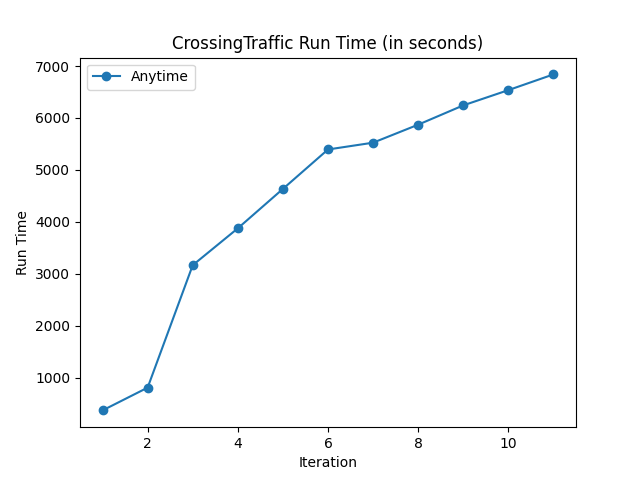
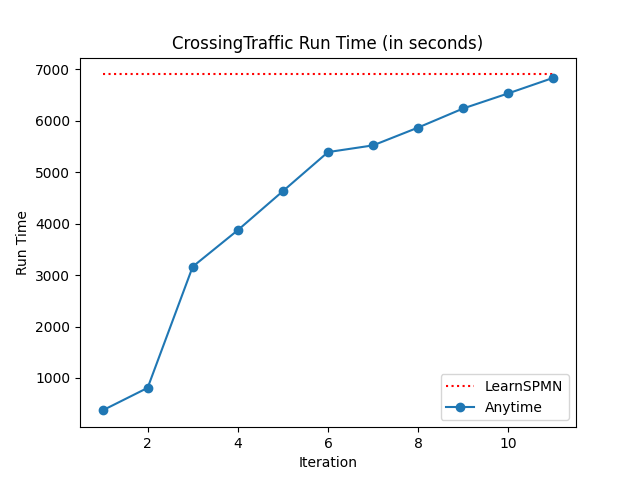
GameOfLife

diff --git a/src/plot.py b/src/plot.py
@@ -28,20 +28,21 @@ path = "new_results_depth1"
 plot_path = f"{path}/{dataset}"
 
 runtime = [367.90279507637024, 806.3270936012268, 3164.336494445801, 3874.411342382431, 4633.373266220093, 5392.799260139465, 5523.524729251862, 5870.454257249832, 6242.0677926540375, 6535.799045324326, 6838.531485795975]
-#avg_ll = [-12.62200935452218, -7.172130296998749, -4.485157790960345, -4.485157790960345, -4.485157790960345, -4.485157790960345, -3.0328539659488234, -3.0328539659488234, -3.0328539659488234, -3.0328539659488234, -3.0328539659488234]
-#ll_dev= [0.46294919289399167, 0.06970015640902255, 0.04424240994764077, 0.04424240994764077, 0.04424240994764077, 0.04424240994764077, 0.03784934657653855, 0.03784934657653855, 0.03784934657653855, 0.03784934657653855, 0.03784934657653855]
+avg_ll = [-12.62200935452218, -7.172130296998749, -4.485157790960345, -4.485157790960345, -4.485157790960345, -4.485157790960345, -3.0328539659488234, -3.0328539659488234, -3.0328539659488234, -3.0328539659488234, -3.0328539659488234]
+ll_dev= [0.46294919289399167, 0.06970015640902255, 0.04424240994764077, 0.04424240994764077, 0.04424240994764077, 0.04424240994764077, 0.03784934657653855, 0.03784934657653855, 0.03784934657653855, 0.03784934657653855, 0.03784934657653855]
 meus = [-5.0, -4.388506386499516, -2.897592095165004, -2.897592095165004, -2.897592095165004, -2.897592095165004, -2.897592095165004, -2.897592095165004, -2.897592095165004, -2.897592095165004, -2.897592095165004]
 nodes = [2990, 13500, 140129, 140129, 140129, 140129, 198840, 198840, 198840, 198840, 198840]
-#edges = [792, 4163, 11285, 11285, 11279, 11279, 15274, 15274, 15274, 15274, 15274]
-#layers = [16, 24, 22, 22, 22, 22, 16, 16, 16, 16, 16]
-#avg_rewards = [-4.946, -5.0, -5.0, -5.0, -5.0, -5.0, -4.0416, -4.0408, -4.0408, -4.0408, -4.0412]
-#reward_dev = [0.02788548009269327, 0.0, 0.0, 0.0, 0.0, 0.0, 0.03444183502660688, 0.03669550381177512, 0.03742940020892686, 0.035611234182487995, 0.03665187580465679]
+edges = [2773, 12551, 128239, 128239, 128239, 128239, 180126, 180126, 180126, 180126, 180126]
+layers = [20, 30, 30, 30, 30, 30, 20, 20, 20, 20, 20]
+avg_rewards = [-5.0, -5.0, -3.0103999999999997, -3.0116, -3.0103999999999997, -3.0103999999999997, -5.0, -5.0, -5.0, -5.0, -5.0]
+reward_dev = [0.0, 0.0, 0.2116086954735083, 0.21417899056630169, 0.21847251543386406, 0.2176801323042596, 0.0, 0.0, 0.0, 0.0, 0.0]
 
-'''
+
+
 original_stats = get_original_stats(dataset)
 optimal_meu = get_optimal_meu(dataset)
 random_policy_reward = get_random_policy_reward(dataset)
-'''
+
 
 plt.close()
 
@@ -56,7 +57,7 @@ plt.close()
 '''
 
 plt.close()
-#plt.plot(range(1,len(runtime)+1), [original_stats["runtime"]]*len(runtime), linestyle="dotted", color ="red", label="LearnSPMN")
+plt.plot(range(1,len(runtime)+1), [original_stats["runtime"]]*len(runtime), linestyle="dotted", color ="red", label="LearnSPMN")
 plt.plot(range(1,len(runtime)+1), runtime, marker="o", label="Anytime")
 plt.title(f"{dataset} Run Time (in seconds)")
 plt.xlabel("Iteration")
@@ -64,7 +65,7 @@ plt.ylabel("Run Time")
 plt.legend()
 plt.savefig(f"{plot_path}/runtime.png", dpi=100)
 plt.close()
-'''
+
 plt.close()
 plt.plot(range(1,len(avg_ll)+1), [original_stats["ll"]]*len(avg_ll), linestyle="dotted", color ="red", label="LearnSPMN")
 plt.errorbar(range(1,len(avg_ll)+1), avg_ll, yerr=ll_dev, marker="o", label="Anytime")
@@ -74,10 +75,10 @@ plt.ylabel("Log Likelihood")
 plt.legend()
 plt.savefig(f"{plot_path}/ll.png", dpi=100)
 plt.close()
-'''
+
 plt.plot(range(1,len(meus)+1), meus, marker="o", label="Anytime")
 #plt.plot(range(1,len(meus)+1), [optimal_meu]*len(meus), linewidth=3, color ="lime", label="Optimal MEU")
-#plt.plot(range(1,len(meus)+1), [original_stats["meu"]]*len(meus), linestyle="dotted", color ="red", label="LearnSPMN")
+plt.plot(range(1,len(meus)+1), [original_stats["meu"]]*len(meus), linestyle="dotted", color ="red", label="LearnSPMN")
 plt.title(f"{dataset} MEU")
 plt.xlabel("Iteration")
 plt.ylabel("MEU")
@@ -86,14 +87,14 @@ plt.savefig(f"{plot_path}/meu.png", dpi=100)
 plt.close()
 
 plt.plot(range(1,len(nodes)+1), nodes, marker="o", label="Anytime")
-#plt.plot(range(1,len(nodes)+1), [original_stats["nodes"]]*len(nodes), linestyle="dotted", color ="red", label="LearnSPMN")
+plt.plot(range(1,len(nodes)+1), [original_stats["nodes"]]*len(nodes), linestyle="dotted", color ="red", label="LearnSPMN")
 plt.title(f"{dataset} Nodes")
 plt.xlabel("Iteration")
 plt.ylabel("# Nodes")
 plt.legend()
 plt.savefig(f"{plot_path}/nodes.png", dpi=100)
 plt.close()
-'''
+
 plt.plot(range(1,len(edges)+1), edges, marker="o", label="Anytime")
 plt.plot(range(1,len(edges)+1), [original_stats["edges"]]*len(edges), linestyle="dotted", color ="red", label="LearnSPMN")
 plt.title(f"{dataset} Edges")
@@ -120,12 +121,13 @@ plt.plot(range(1,len(avg_rewards)+1), rand_reward, linestyle="dashed", color ="g
 original_reward = np.array([original_stats["reward"]]*len(avg_rewards))
 dev = np.array([original_stats["dev"]]*len(avg_rewards))
 plt.fill_between(range(1,len(avg_rewards)+1), original_reward-dev, original_reward+dev, alpha=0.3, color="red")
-plt.plot(range(1,len(avg_rewards)+1), [optimal_meu]*len(avg_rewards), linewidth=3, color ="lime", label="Optimal MEU")
+#plt.plot(range(1,len(avg_rewards)+1), [optimal_meu]*len(avg_rewards), linewidth=3, color ="lime", label="Optimal MEU")
 plt.plot(range(1,len(avg_rewards)+1), original_reward, linestyle="dashed", color ="red", label="LearnSPMN")
 
 plt.errorbar(range(1,len(avg_rewards)+1), avg_rewards, yerr=reward_dev, marker="o", label="Anytime")
 plt.title(f"{dataset} Average Rewards")
+plt.xlabel("Iteration")
+plt.ylabel("Average Rewards")
 plt.legend()
 plt.savefig(f"{plot_path}/rewards.png", dpi=100)
 plt.close()
-'''

diff --git a/src/spn/data/domain_stats.py b/src/spn/data/domain_stats.py
@@ -8,8 +8,8 @@ original_stats = {
 	'Computer_Diagnostician': {"ll" : -0.9011245432112749, "meu" : -208.351, 'nodes' : 56, 'reward':-210.15520000000004, 'dev':0.3810022440878799},
 	'Powerplant_Airpollution': {"ll" : -1.0796885930912947, "meu" : -2756263.244346315, 'nodes' : 38, 'reward':-2759870.4, 'dev':6825.630813338794},
 	'Navigation': {"ll" : -0.25421657291373406, "meu" : -4.049331963001028, 'nodes' : 17426, 'edges' : 15274, 'layers' : 16, 'reward':-4.052, 'dev':0.022825424421026797, 'runtime':2044.684020280838},
-	'Navigation1': {"ll" : -0.24199351938969704, "meu" : -3.120315581854044, 'nodes' : 17338, 'reward':-3.1046000000000005, 'dev':0.042266298631415615, 'runtime':3610.374293088913},
 	'Elevators': {"ll" : 0, "meu" : 0.5, 'nodes' : 38227, 'edges' : 32766, 'layers' : 14, 'reward':0.5, 'dev':0.0, 'runtime':2499.035037279129},
+	'CrossingTraffic': {"ll" : -3.024408393022007, "meu" : -2.897592095165004, 'nodes' : 198840, 'edges' : 180126, 'layers' : 20, 'reward':-5.0, 'dev':0.0, 'runtime':6904.133388757706},
 }
 
 #Optimal MEU values from the IDs
@@ -20,9 +20,9 @@ optimal_meu = {
 	'HIV_Screening': 42.5597,
 	'Test_Strep': 54.9245,
 	'LungCancer_Staging': 3.12453,
-	'Navigation1': -3.09726,
 	'Navigation': -4.046906,
-	'Elevators': 0.5
+	'Elevators': 0.5,
+	'CrossingTraffic': None,
 }
 
 #Rewards by simulating random policy
@@ -33,7 +33,6 @@ random_reward = {
 	'HIV_Screening': {'reward': 42.3740002199867, 'dev':0.07524234474837802},
 	'Test_Strep': {'reward': 54.89614493400057, 'dev':0.012847272731391593},
 	'LungCancer_Staging': {'reward': 2.672070640000026, 'dev':0.007416967451081523},
-	'Navigation1': {'reward': -4.941799999999999, 'dev':0.018664404624846833},
 	'Navigation': {'reward': -4.972862, 'dev':0.00189885649800079},
 	'CrossingTraffic': {'reward': -4.779254, 'dev':0.005551430806557858},
 	'Elevators': {'reward': -6.129405499999999 , 'dev':0.006561652878657956},

diff --git a/src/spn/algorithms/ASPMN.py b/src/spn/algorithms/ASPMN.py
@@ -485,8 +485,8 @@ class Anytime_SPMN:
 		i = 0
 		while(True):
 
-			'''
-			if i < 7:
+			
+			if i < 3:
 				i += 1
 				limit += 1
 				max_depth += 1
@@ -495,7 +495,7 @@ class Anytime_SPMN:
 				if self.vars < 10:
 					step = 1
 				continue
-			'''
+			
 
 			index = 0
 			print(f"\nIteration: {i+1}\n")

diff --git a/src/spn/algorithms/ASPMN1.py b/src/spn/algorithms/ASPMN1.py
@@ -469,7 +469,7 @@ class Anytime_SPMN:
 		n = int(self.vars**0.5)
 		step = 0 if self.vars < 10 else (self.vars - (self.vars**0.5) + 1)/10
 		d = 2
-		d_max = 4
+		d_max = np.unique(train[:, self.dec_node_vars]).shape[0]
 		d_step = (d_max - d + 1)/10
 		max_depth = 1
 		past3 = list()

diff --git a/src/learnaspmn4.py b/src/learnaspmn4.py
@@ -28,7 +28,7 @@ import sys, os
 
 
 datasets = ['Export_Textiles', 'Powerplant_Airpollution', 'HIV_Screening', 'Computer_Diagnostician', 'Test_Strep', 'LungCancer_Staging']
-datasets = ['Export_Textiles']
+datasets = ['CrossingTraffic']
 path = "test"
 
 
